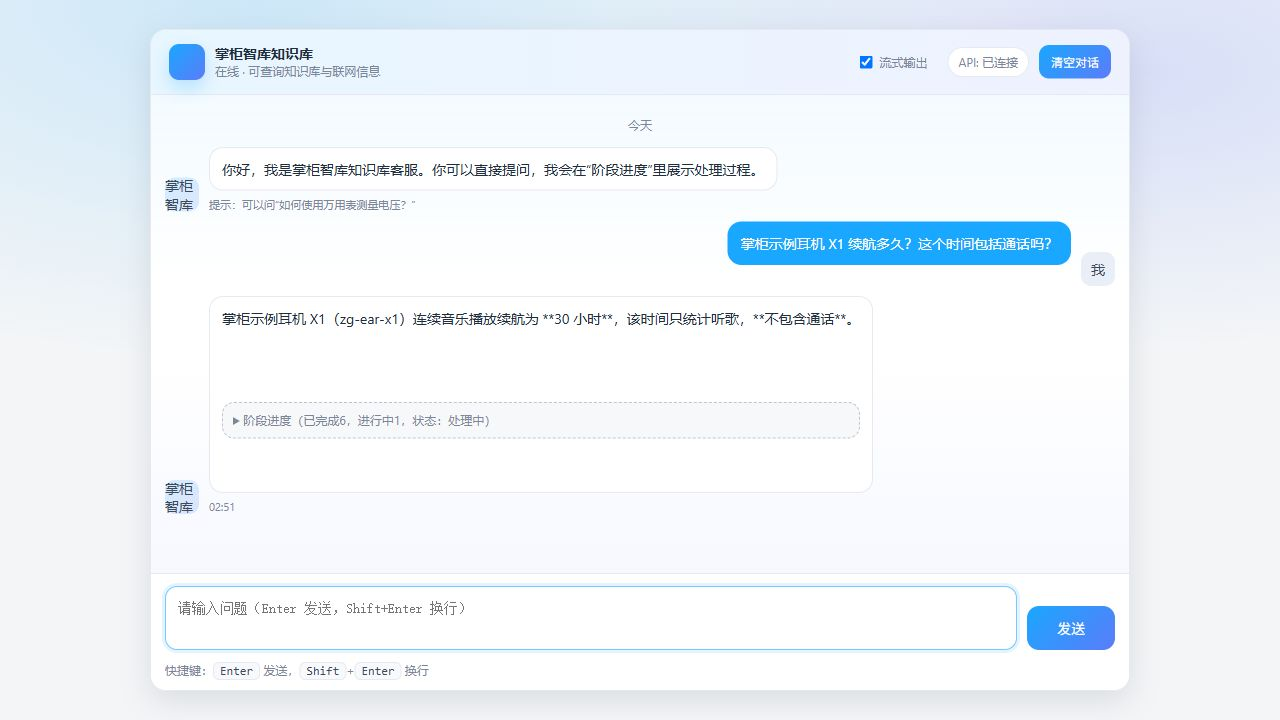
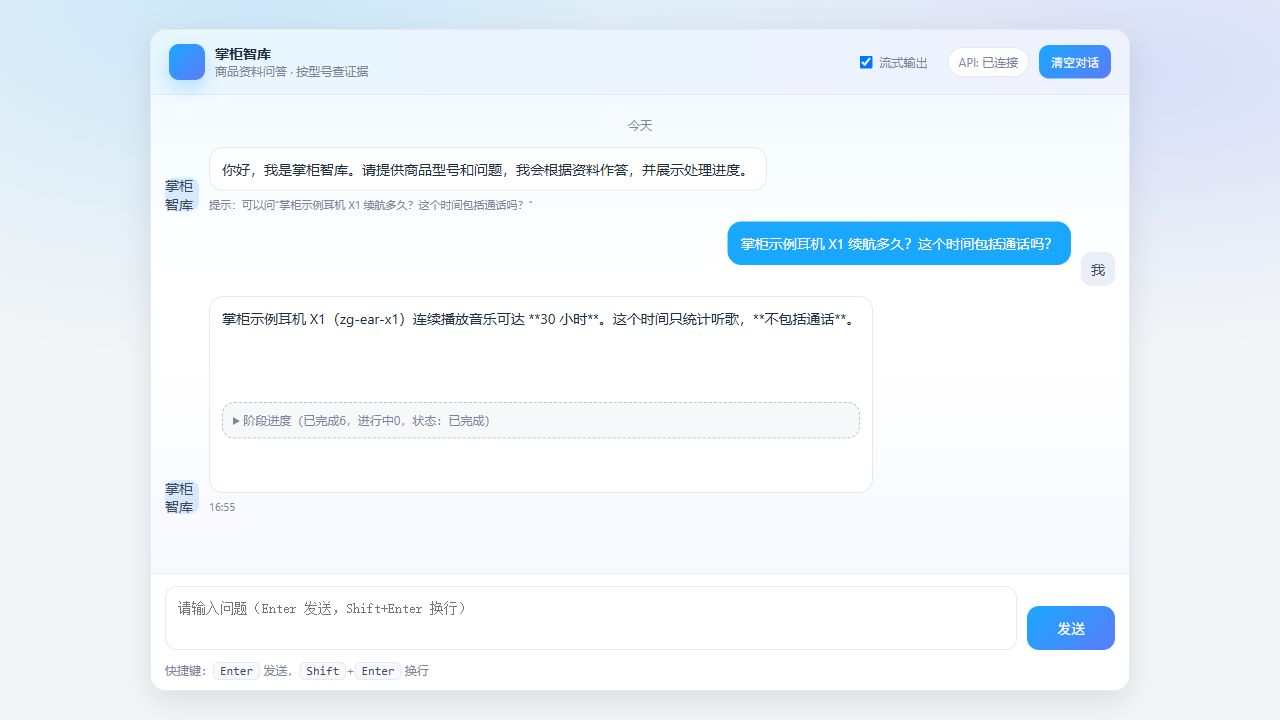
fix: align project presentation and document release self-audit

diff --git a/knowledge_base/app/query_process/page/chat.html b/knowledge_base/app/query_process/page/chat.html
@@ -3,7 +3,7 @@
 <head>
   <meta charset="UTF-8" />
   <meta name="viewport" content="width=device-width,initial-scale=1.0" />
-  <title>掌柜智库知识库</title>
+  <title>掌柜智库 · 商品资料问答</title>
   <style>
     :root{
       --bg:#f3f5f7;
@@ -266,8 +266,8 @@
       <div class="brand">
         <div class="logo"></div>
         <div class="title">
-          <strong>掌柜智库知识库</strong>
-          <span id="subTitle">在线 · 可查询知识库与联网信息</span>
+          <strong>掌柜智库</strong>
+          <span id="subTitle">商品资料问答 · 按型号查证据</span>
         </div>
       </div>
       <div class="top-actions">
@@ -284,8 +284,8 @@
       <div class="msg bot">
         <div class="avatar bot">掌柜智库</div>
         <div>
-          <div class="bubble">你好，我是掌柜智库知识库客服。你可以直接提问，我会在“阶段进度”里展示处理过程。</div>
-          <div class="meta">提示：可以问“如何使用万用表测量电压？”</div>
+          <div class="bubble">你好，我是掌柜智库。请提供商品型号和问题，我会根据资料作答，并展示处理进度。</div>
+          <div class="meta">提示：可以问“掌柜示例耳机 X1 续航多久？这个时间包括通话吗？”</div>
         </div>
       </div>
     </div>
@@ -592,7 +592,9 @@
       const summary = details.querySelector('summary');
       const ul = details.querySelector('ul');
       const done = Array.isArray(doneList) ? doneList : [];
-      const running = Array.isArray(runningList) ? runningList : [];
+      const terminal = ['completed', 'failed', 'answered'].includes(status);
+      const running = !terminal && Array.isArray(runningList) ? runningList : [];
+      details.dataset.doneList = JSON.stringify(done);
       const totalDone = done.length;
       const totalRun = running.length;
 
@@ -601,6 +603,7 @@
         'completed': '已完成',
         'failed': '失败',
         'pending': '等待中',
+        'answered': '答案已返回',
       };
       const displayStatus = statusMap[status] || status || 'unknown';
 
@@ -620,10 +623,19 @@
       }
     }
 
+    function finalizeProgress(botMsgEl, status, doneList){
+      const details = botMsgEl.querySelector('details.progress');
+      if(!details) return;
+      const done = Array.isArray(doneList) ? doneList : JSON.parse(details.dataset.doneList || '[]');
+      renderProgress(botMsgEl, done, [], status);
+      details.removeAttribute('open');
+    }
+
     function finalizeBotAnswer(botMsgEl, answer, error, imageUrls){
       const bubble = botMsgEl.querySelector('.bubble');
       const progress = botMsgEl.querySelector('details.progress');
       const err = (error || '').trim();
+      finalizeProgress(botMsgEl, err ? 'failed' : 'completed');
 
       if(err){
         const progressEl = progress ? progress : null;
@@ -808,6 +820,7 @@
             // 流式 delta 可能不包含“【图片】/图片列表”，最终包的 d.answer 才是完整答案；优先使用 d.answer
             const finalText = (d && typeof d.answer === 'string' && d.answer.trim().length > 0) ? d.answer : (rawAnswerText || answerEl.textContent || '');
             renderAnswerWithImages(answerEl, finalText, d.image_urls || []);
+            finalizeProgress(botMsgEl, d.error ? 'failed' : 'completed', d.done_list);
           }catch(_){}
           es.close();
           sendBtn.disabled = false;
@@ -824,12 +837,15 @@
             const d = JSON.parse(e.data || '{}');
             const finalText = (d && typeof d.answer === 'string' && d.answer.trim().length > 0) ? d.answer : (rawAnswerText || answerEl.textContent || '');
             renderAnswerWithImages(answerEl, finalText, d.image_urls || []);
+            // 节点答案事件不等同于整个后台任务完成，明确显示已收到答案。
+            finalizeProgress(botMsgEl, d.error ? 'failed' : 'answered', d.done_list);
           }catch(_){}
           es.close();
           sendBtn.disabled = false;
         });
 
         es.addEventListener('error', (e) => {
+          finalizeProgress(botMsgEl, 'failed');
           const typing = botMsgEl.querySelector('.typing');
           if(typing) typing.remove();
           // 收起进度条
@@ -848,6 +864,7 @@
           sendBtn.disabled = false;
         });
       }catch(e){
+        finalizeProgress(botMsgEl, 'failed');
         const bubble = botMsgEl.querySelector('.bubble');
         const progress = botMsgEl.querySelector('details.progress');
         const typing = botMsgEl.querySelector('.typing');

diff --git a/docs/self-audit-2026-11-08.md b/docs/self-audit-2026-11-08.md
@@ -1,0 +1,44 @@
+# 发布自检 · 2026-11-08
+
+[返回首页](../README.md) · [评测口径](evaluation.md) · [实操图集](gallery.md) · [在线部署](pythonanywhere.md)
+
+核查基线为 `15b0e3961e8cc6aa270a03712edc8dd04afd93a8`，覆盖私有手册验收、Shopify 开发店和 PythonAnywhere 在线测试版。本页记录开发者借助 Codex 完成的自检，不是独立盲评或独立安全审计。原始日志保留本机忽略目录，公开内容仅为脱敏摘要。
+
+## 发现与修正
+
+| 问题 | 处理结果 |
+| --- | --- |
+| 问答页面仍有“知识库 / 联网信息 / 万用表”旧文案，首页截图与项目定位不一致 | 统一为“掌柜智库 · 商品资料问答”，改用公开 X1 续航示例，并从真实页面重新截图 |
+| 最终回答已经返回，页面仍显示处理中 | 修正终态进度；公开样例实际浏览器显示已完成 6、进行中 0。节点答案事件显示“答案已返回” |
+| 第二步记录 61 项，当前文档记录 72 项 | 明确第二步当时为 Listing 61 项，第三步增加部署与恢复测试后为 72 项；原始回执保留历史值 |
+| 在线入口不突出，容易将云端 Listing 理解成完整 RAG 部署 | README 增加入口并写明需要授权账号、仅本人测试；GitHub Website 已设置为在线测试版 |
+| 项目元数据描述只突出设备手册；评测快照与当前发布目录的区别不够清楚 | 更新项目描述，明确验收固定的是 RAG 工作流与提示词，后续 Listing 和页面变化不回写验收快照 |
+| 图集说明带有参考素材措辞；评测文案披露了不必要的私有型号 | 改为当前源码结构说明；保留缺字修复事实，省去具体型号 |
+
+## 核验结果
+
+| 检查 | 本轮结果与范围 |
+| --- | --- |
+| Listing 离线回归 | 72 项通过；禁用 `.env` 加载，固定 `local` 店铺后端 |
+| RAG 合成回归 | 39 项通过；没有重新运行私有冻结题 |
+| 问答真实页面 | 公开 X1 证据与真实文本模型回答保留“30 小时、不含通话”，终态进度正确；联网和历史关闭 |
+| Shopify 当前状态 | 2026-11-08 08:59 UTC，通过现有适配器只读查询；X1 `15464977825866`、P20 `15465550020682` 均存在且为 DRAFT，标题型号与品牌匹配；本轮未执行创建或确认 |
+| 匿名公网访问 | 9 项符合预期：首页转 Listing、工作台转登录、登录页与健康检查可达；dashboard / meta 返回 401；docs / chat / import 返回 404 |
+| 已登录云端工作台 | 原 P20 任务仍显示同一保存回执；看板保留 1 个任务，0 token、0 USD。商品当前状态另由上行只读查询确认 |
+| 私有验收封存 | 清单 16 个文件摘要一致；未重跑问答。唯一新题运行 SHA256 与公开评测页一致 |
+| 验收系统快照 | 重算快照 110 个文件的聚合摘要一致；当前 52 个 RAG Python / prompt 文件与快照一致。页面不计入该源码摘要 |
+| 凭据检查 | 对基线 204 个跟踪文件、348 个可达历史 Git blob 检查 11 个已知私密值及常见密钥格式，未命中；实际私有资料目录没有跟踪文件 |
+
+本机回归在页面修正前完成，后端没有修改；页面修正通过真实浏览器问答复核。发布后的完整回归与容器卷检查以 [当前 GitHub Actions](https://github.com/heYC3/zhanggui-zhiku/actions/workflows/listing-ci.yml) 为准。基线提交的 [CI 运行](https://github.com/heYC3/zhanggui-zhiku/actions/runs/42461297432) 中 `test`、`rag-contracts`、`volume` 均通过。
+
+私有结果仍为 5 本手册、54 题中的 24 道首次新题：严格整题 23/24、指定文字要点 47/47、显式选图 4/5。封存完整性检查不构成新的准确率实验，也不代表独立复现。摘要与方法见[评测说明](evaluation.md)。
+
+## 保留的边界
+
+- 在线地址可达，但工作台需要授权账号；云端只包含 Listing 与公开自编商品，完整 RAG 和手册导入仍在本机运行。
+- 最近一次公开导入演示在 Milvus 连接阶段失败，未成功入库。本轮不重跑该导入，问答图使用离线证据，不能将两图合称一次成功入库验收。
+- Shopify 真实验证限定开发店和自编商品；真实店故障注入、多店授权、生产高可用没有验收。并发和未知结果等故障窗口由离线模拟覆盖。
+- `.gitignore` 中的“课程资料/”是排除规则，未跟踪该目录内容；无需为展示改动本机资料目录。旧本机演示用户名不是实际密码，首页已使用回执局部图。
+- 不通过新增 Release 或改写历史 JSON 来补齐测试口径；发布版本号不代替实际功能核验。凭据扫描也只说明本轮扫描范围内未发现命中。
+
+![修正后的真实 X1 问答页面](assets/chat_demo_2026-11-08.jpg)

diff --git a/docs/evaluation.md b/docs/evaluation.md
@@ -35,8 +35,8 @@
 - 样本仅5本、首次验收仅24题，不能推出大规模泛化或线上业务收益。
 - 同一开发者借助Codex实现、出题和复核，不是独立人工盲评；47/47只是指定事实覆盖，不是所有生成语句的准确率。
 - 265条旧正文迁移时仅替换图片URL，逐字检查其余内容并复用原向量；封面补充与新手册共33条重新编码。新旧语料不同，不能将数字变化当成严格同语料的纯检索增益。
-- 图片专项：413张去重图片HTTP状态和MIME通过；单张真实视觉模型导入与真实浏览器流式显示通过。同步/轮询为保存旧题结果的ASGI契约验证；页面进度提示存在滞后，MinIO后端未验收。
-- 原PDF有而切片没有的CS407型号已通过封面补充恢复；其他编码异常不视为全部解决。
+- 图片专项：413张去重图片HTTP状态和MIME通过；单张真实视觉模型导入与真实浏览器流式显示通过。同步/轮询为保存旧题结果的ASGI契约验证；验收时页面进度提示存在滞后，2026-11-08 展示自检已修正并用公开样例复核，不回写历史验收结果。MinIO后端未验收。
+- 原PDF有而切片缺失的一处型号已通过封面补充恢复；其他编码异常不视为全部解决。
 - 24道新题本次运行后即已暴露，未来只能作为回归资料。后续修复必须另立系统与验收版本。
 
 ### 结果来源
@@ -50,7 +50,7 @@
[2 lines of base64/hex data omitted]
 
-首次运行后未修改活动工作流，也未重跑。发布整理归档了未被服务入口引用的学习脚本和流程副本；上表系统摘要仍对应验收时完整源码快照，不回写为发布目录的新摘要。
+首次运行后未调整用于该验收的 RAG 活动工作流或提示词，也未重跑新题。后续发布继续增加 Listing 部署与页面展示功能，不能把当前发布目录当成原验收快照。发布整理另行归档了未被服务入口引用的历史脚本和流程副本；上表系统摘要仍对应验收时完整源码快照，不回写为发布目录的新摘要。
 
 ## Listing：公开合成基线
 

diff --git a/docs/gallery.md b/docs/gallery.md
@@ -12,7 +12,7 @@
 
 此图验证公开证据到真实模型的页面问答，不代表本轮远程 Milvus 路径已打通。样例参数与 [X1 商品 JSON](../knowledge_base/listing_data/products/zg-ear-x1.json)、[公开 Markdown 手册](../knowledge_base/data/samples/示例-掌柜耳机说明书.md) 对齐。商品为合成演示资料，不是在售产品。
 
-页面最终回答已返回，但阶段进度仍显示“处理中”，属于已知的提示滞后；图中保留该状态。首次配置目录时曾因名称与 SKU 不一致而未取到证据，公开目录已改用 SKU，随后对同一问题重新验证；这次开发演示不计入冻结验收。
+本轮自检修正了回答结束后进度提示滞后的问题，并从当前页面重新采集截图：最终回答与“已完成”状态一致。节点答案事件单独标为“答案已返回”，不冒充整个后台任务完成。首次配置目录时曾因名称与 SKU 不一致而未取到证据，公开目录已改用 SKU，随后对同一问题重新验证；这些开发演示不计入冻结验收。
 
 ## 2. 导入：保留真实失败状态
 
@@ -44,7 +44,7 @@
 
 ![当前实现结构](assets/architecture.svg)
 
-实现结构示意，参考提供的三列架构布局，按当前源码校正。默认图片是本机哈希 URL，MinIO 可选；联网分支默认关闭；Shopify 通过持久化 WriteIntent、仅 DRAFT、独立读回与核对控制写入。该图不表示完整 RAG 容器部署已经验收。
+实现结构示意，按当前源码绘制。默认图片是本机哈希 URL，MinIO 可选；联网分支默认关闭；Shopify 通过持久化 WriteIntent、仅 DRAFT、独立读回与核对控制写入。该图不表示完整 RAG 容器部署已经验收。
 
 ## 6. 评测：保留分母与来源
 

diff --git a/README.md b/README.md
@@ -10,6 +10,8 @@
 
 技术栈：**Python · FastAPI · LangGraph · BGE-M3 · Milvus · SQLite · SSE · MCP**。
 
+**在线入口：**[Listing 测试版](https://zhanggui.pythonanywhere.com/)（需要授权账号，仅本人测试）。云端只部署 Listing 与公开自编商品；手册导入和 RAG 问答在本机运行。详见[部署验收与范围](docs/pythonanywhere.md)。
+
 ## 项目演示
 
 **问答：完整型号提问，保留资料中的使用限制。** 下图使用公开自编 X1 资料、离线证据后端与真实模型；关闭联网，不是远程 Milvus 入库后的验收。
@@ -59,6 +61,8 @@
 私有题在来源核对后封存，系统固定后只运行一次；同一开发者借助 Codex 实现、出题和复核，**不是独立人工盲评**。公开仓库提供方法、合成测试和脱敏汇总，原手册、题目和完整运行留在本机。
 
 完整口径、来源摘要与限制见 [评测说明](docs/evaluation.md)；Listing 原始公开记录见 [基线](knowledge_base/listing_data/reports/baseline.md)、[故障与恢复](knowledge_base/listing_data/reports/durability.md)。
+
+[2026-11-08 发布自检](docs/self-audit-2026-11-08.md)：核对三步结果、实时 DRAFT 状态、在线访问边界、私有验收封存和展示文案。
 
 ## 快速运行
 
